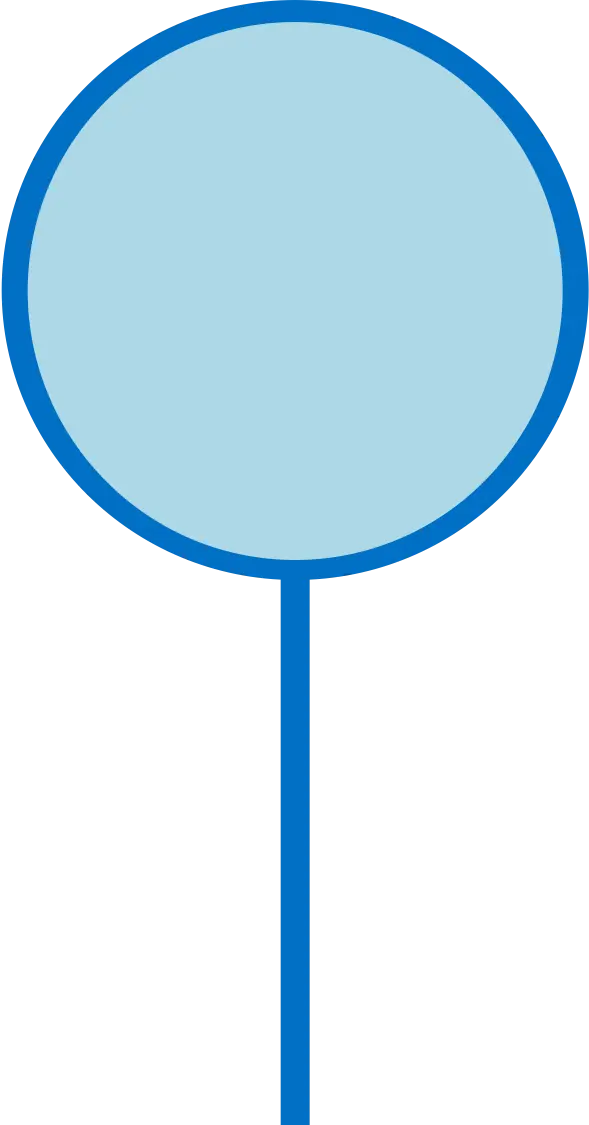
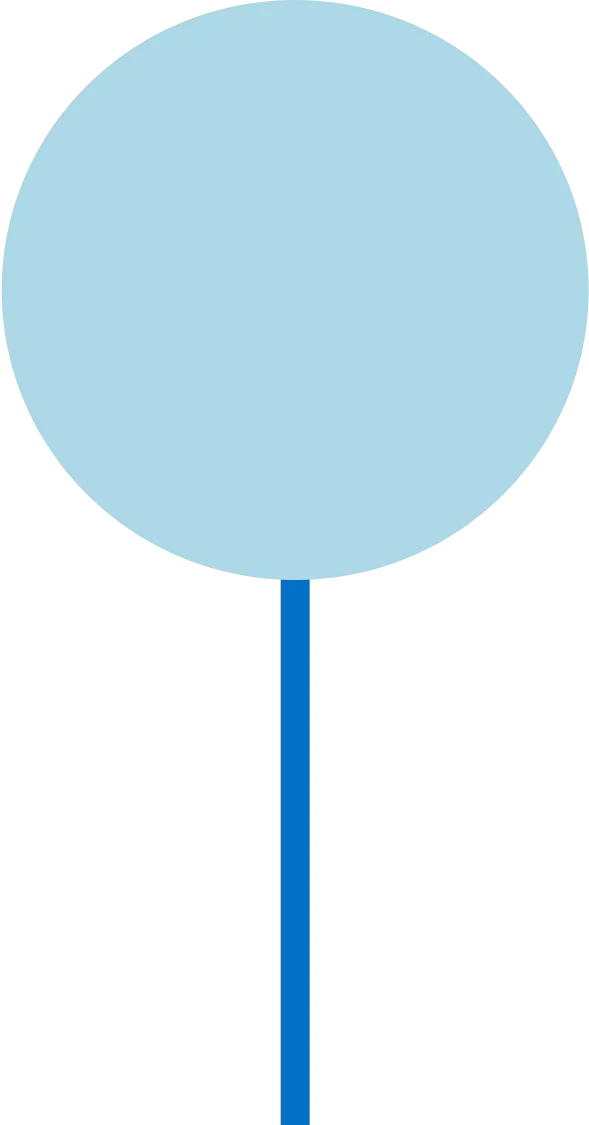
bug fix that gray pin not displayed

Changed region(s): [[0.0, 0.0, 1.0, 0.5289]]

diff --git a/client/js/helper/utilities.js b/client/js/helper/utilities.js
@@ -251,7 +251,7 @@ export const getIconColor = (item, hasColorPanel) => {
 		}
 
 		if (item.searched && item.status !== NORMAL) {
-			return config.mapConfig.iconColor.deivce.greyWithoutDot
+			return config.mapConfig.iconColor.deivce.grayWithoutDot
 		}
 
 		if (hasColorPanel) {
@@ -287,7 +287,7 @@ export const getPopupContent = (object, objectList, locale) => {
 				? `${index + 1}.`
 				: '&bull;'
 			const acn = `${locale.texts.ASSET_CONTROL_NUMBER}: ${
-				config.ACNOmitsymbol
+				config.mapConfig.ACNOmitsymbol
 			}${item.asset_control_number.slice(-4)},`
 			const residenceTime =
 				item.status !== RETURNED

diff --git a/client/js/domain/Map.js b/client/js/domain/Map.js
@@ -406,8 +406,6 @@ class Map extends React.Component {
 					errorCircle.addTo(this.markersLayer)
 				}
 
-				console.log(getIconColor(item, pinColorIndex > -1))
-
 				/** Set the icon option*/
 				item.iconOption = {
 					...this.iconOptions,

diff --git a/client/js/config/mapConfig.js b/client/js/config/mapConfig.js
@@ -227,7 +227,7 @@ const mapConfig = {
 		deivce: {
 			normal: 'BlackWithDot',
 			unNormal: 'GrayWithDot',
-			greyWithoutDot: 'Grey',
+			grayWithoutDot: 'Gray',
 			blackBed: 'BlackRound',
 			whiteBed: 'WhiteRound',
 		},
